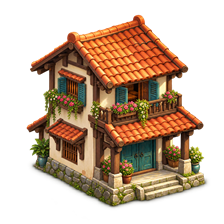
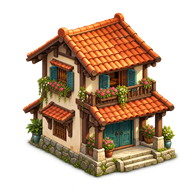
Right-size central scene sprites

diff --git a/docs/art-direction.md b/docs/art-direction.md
@@ -118,7 +118,7 @@ Vanilla source images are `asset/source_crops/v3/vanilla-growing.png` and `asset
 ## Review checklist for each new sprite
 
 The original coop, windmill, market, and farmer scene images are in `asset/source_scene/v3/`. Their 256px transparent browser exports are in `public/assets/scene-v3/`; the scene displays them at about 115–135 CSS pixels on desktop. These four exports total about 331 KB, down from about 1,237 KB for the 500–512px originals.
-The farmhouse, red barn, and greenhouse sources are also in `asset/source_scene/v3/`. Their 224px transparent browser exports are in `public/assets/scene-v3/`; this size keeps the three central buildings readable in the scene while respecting the first-load image budget.
+The farmhouse, red barn, and greenhouse sources are also in `asset/source_scene/v3/`. Their 192px transparent browser exports are in `public/assets/scene-v3/`; this size keeps the three central buildings readable in the scene while respecting the first-load image budget.
 
 Machine sources are in `asset/source_machines/v3/`; the 144×144 transparent game exports are in `public/assets/machines-v3/`. The set includes unique art for all twelve machines. The exports serve 44px card icons at up to roughly 3× display density; keep the full-resolution sources for larger future uses.
 

diff --git a/docs/art-inventory.md b/docs/art-inventory.md
@@ -433,10 +433,10 @@ This list includes scene buildings, backgrounds, UI icons, and product art named
 | `assets/products-v3/wool-roll.png` | 19 KB |
 | `assets/scene-v3/chicken_coop_v3.png` | 66 KB |
 | `assets/scene-v3/farmer_v3.png` | 63 KB |
-| `assets/scene-v3/farmhouse_v3.png` | 85 KB |
-| `assets/scene-v3/greenhouse_v3.png` | 90 KB |
+| `assets/scene-v3/farmhouse_v3.png` | 63 KB |
+| `assets/scene-v3/greenhouse_v3.png` | 67 KB |
 | `assets/scene-v3/market_shop_v3.png` | 114 KB |
-| `assets/scene-v3/red_barn_v3.png` | 85 KB |
+| `assets/scene-v3/red_barn_v3.png` | 63 KB |
 | `assets/scene-v3/windmill_v3.png` | 88 KB |
 | `assets/ui/coin.svg` | <1 KB |
 | `assets/ui/egg.svg` | <1 KB |
